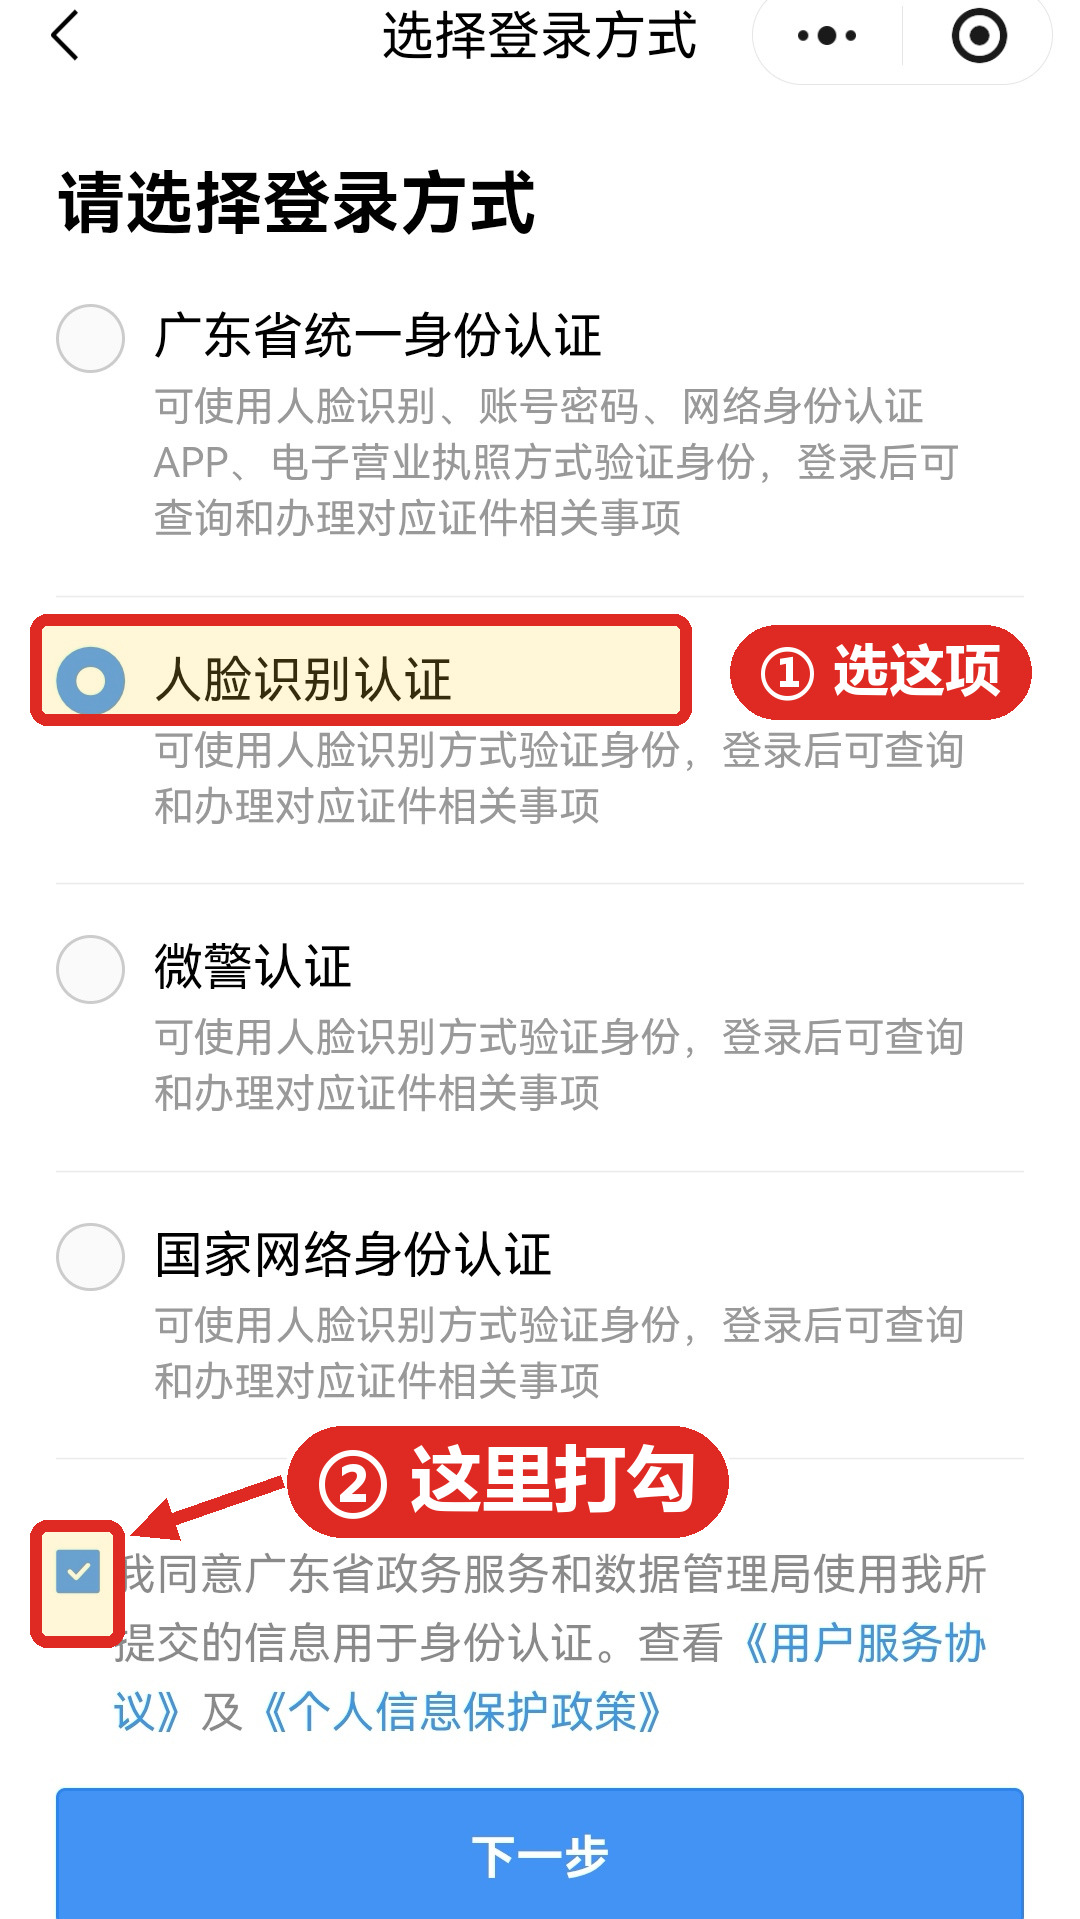
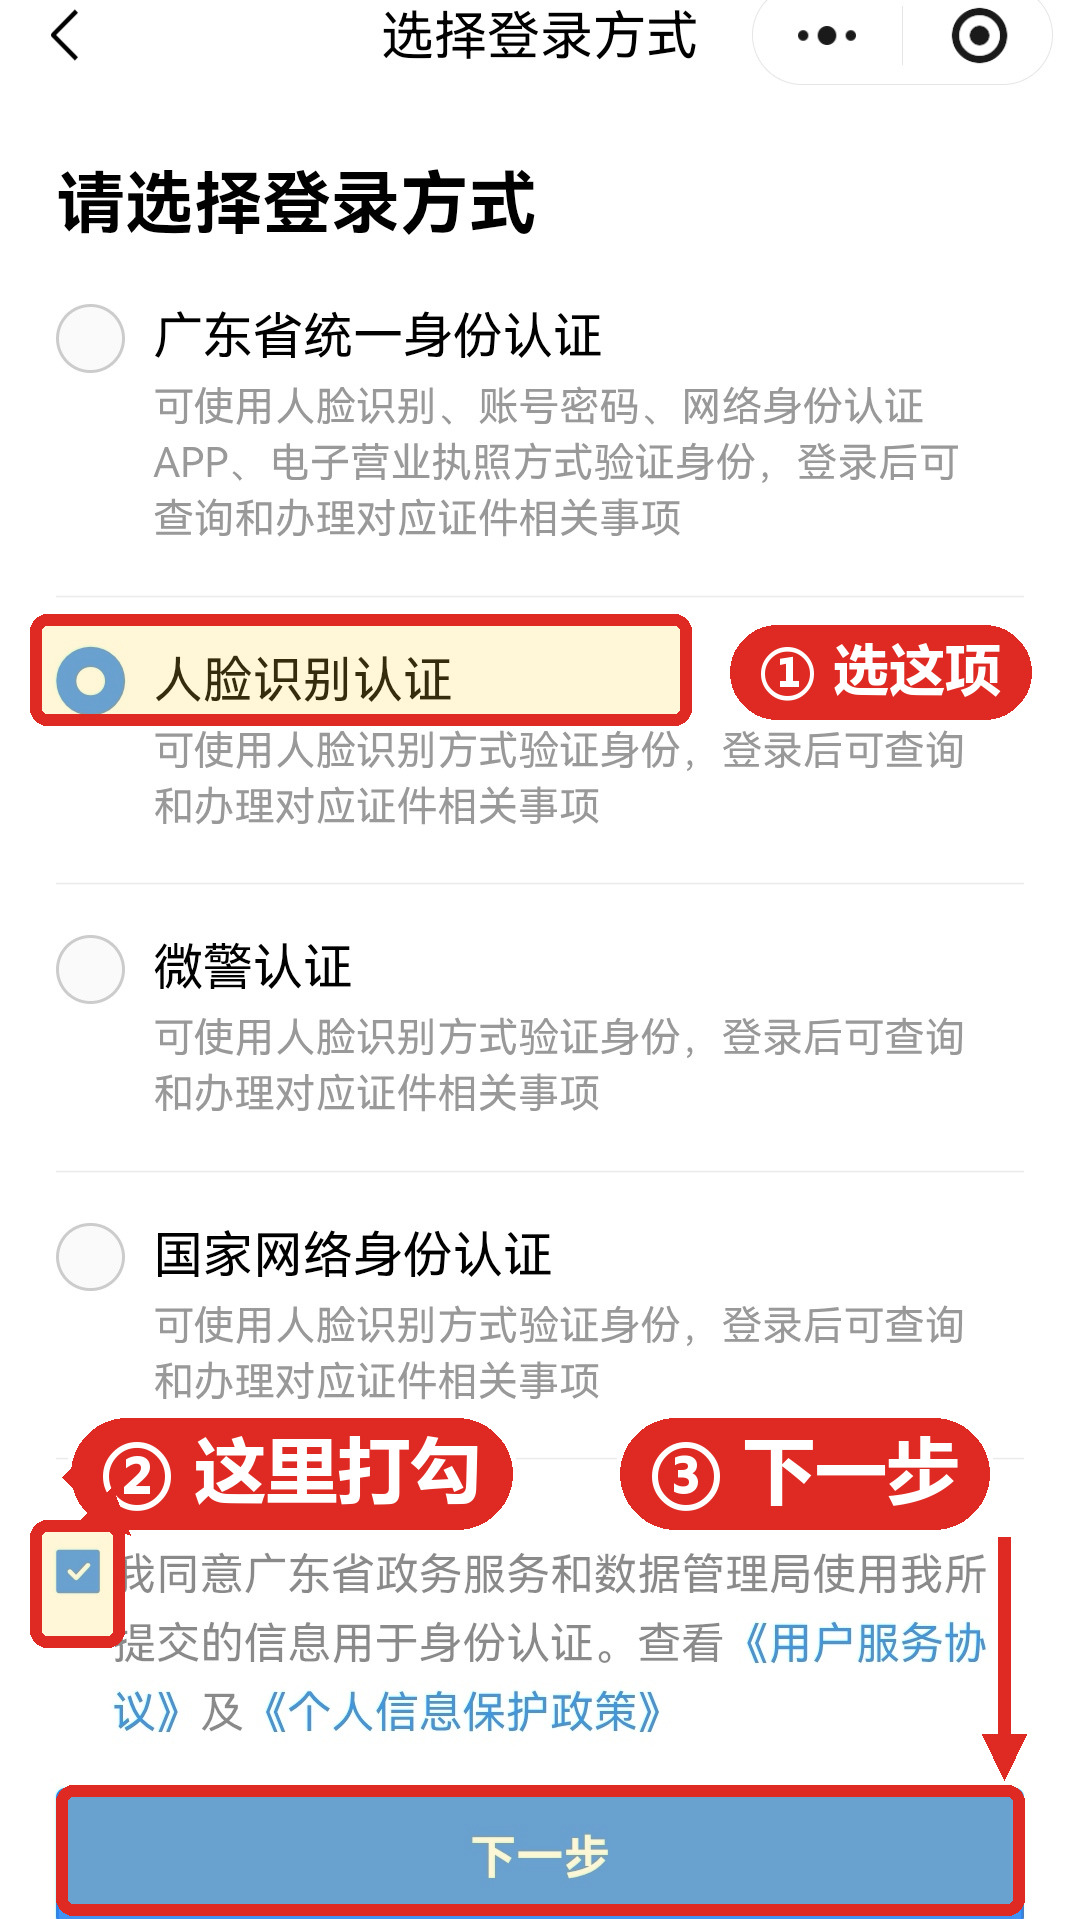
Annotate all 11 screenshots with red tap-target boxes and arrows

Changed region(s): [[0.0306, 0.7994, 0.9472, 1.0], [0.0611, 0.7379, 0.9167, 0.7994]]

diff --git a/index.html b/index.html
@@ -523,14 +523,14 @@
     <article class="step reveal">
       <div class="step-head">
         <span class="step-no">06</span>
-        <h3 class="step-title">选择方式，并勾选「我同意」</h3>
+        <h3 class="step-title">选方式、打勾、点「下一步」</h3>
       </div>
-      <p class="step-desc">本指引以选择第二项「<b>人脸识别认证</b>」为例。<b>无论选哪种方式，最后都要刷脸</b>，选哪一项都能办成。关键是：<b>务必把下方「我同意……」的方框打上勾</b>，否则无法进行下一步。</p>
+      <p class="step-desc">本指引以选择第二项「<b>人脸识别认证</b>」为例。<b>无论选哪种方式，最后都要刷脸</b>，选哪一项都能办成。然后<b>务必把下方「我同意……」的方框打上勾</b>，勾上以后才能点页面底部的「<b>下一步</b>」。<b>三步缺一不可：① 选方式 → ② 打勾 → ③ 点下一步。</b></p>
       <div class="shot-box">
         <img class="shot" loading="lazy" decoding="async" src="06_选择登录方式_改选人脸识别并勾选同意.jpg" alt="改选人脸识别并勾选同意" width="576" height="1024">
         <span class="zoom-hint">点击放大</span>
       </div>
-      <p class="shot-note">已改选并勾选同意</p>
+      <p class="shot-note">① 选这项 → ② 这里打勾 → ③ 点下一步</p>
     </article>
 
     <article class="step reveal">
